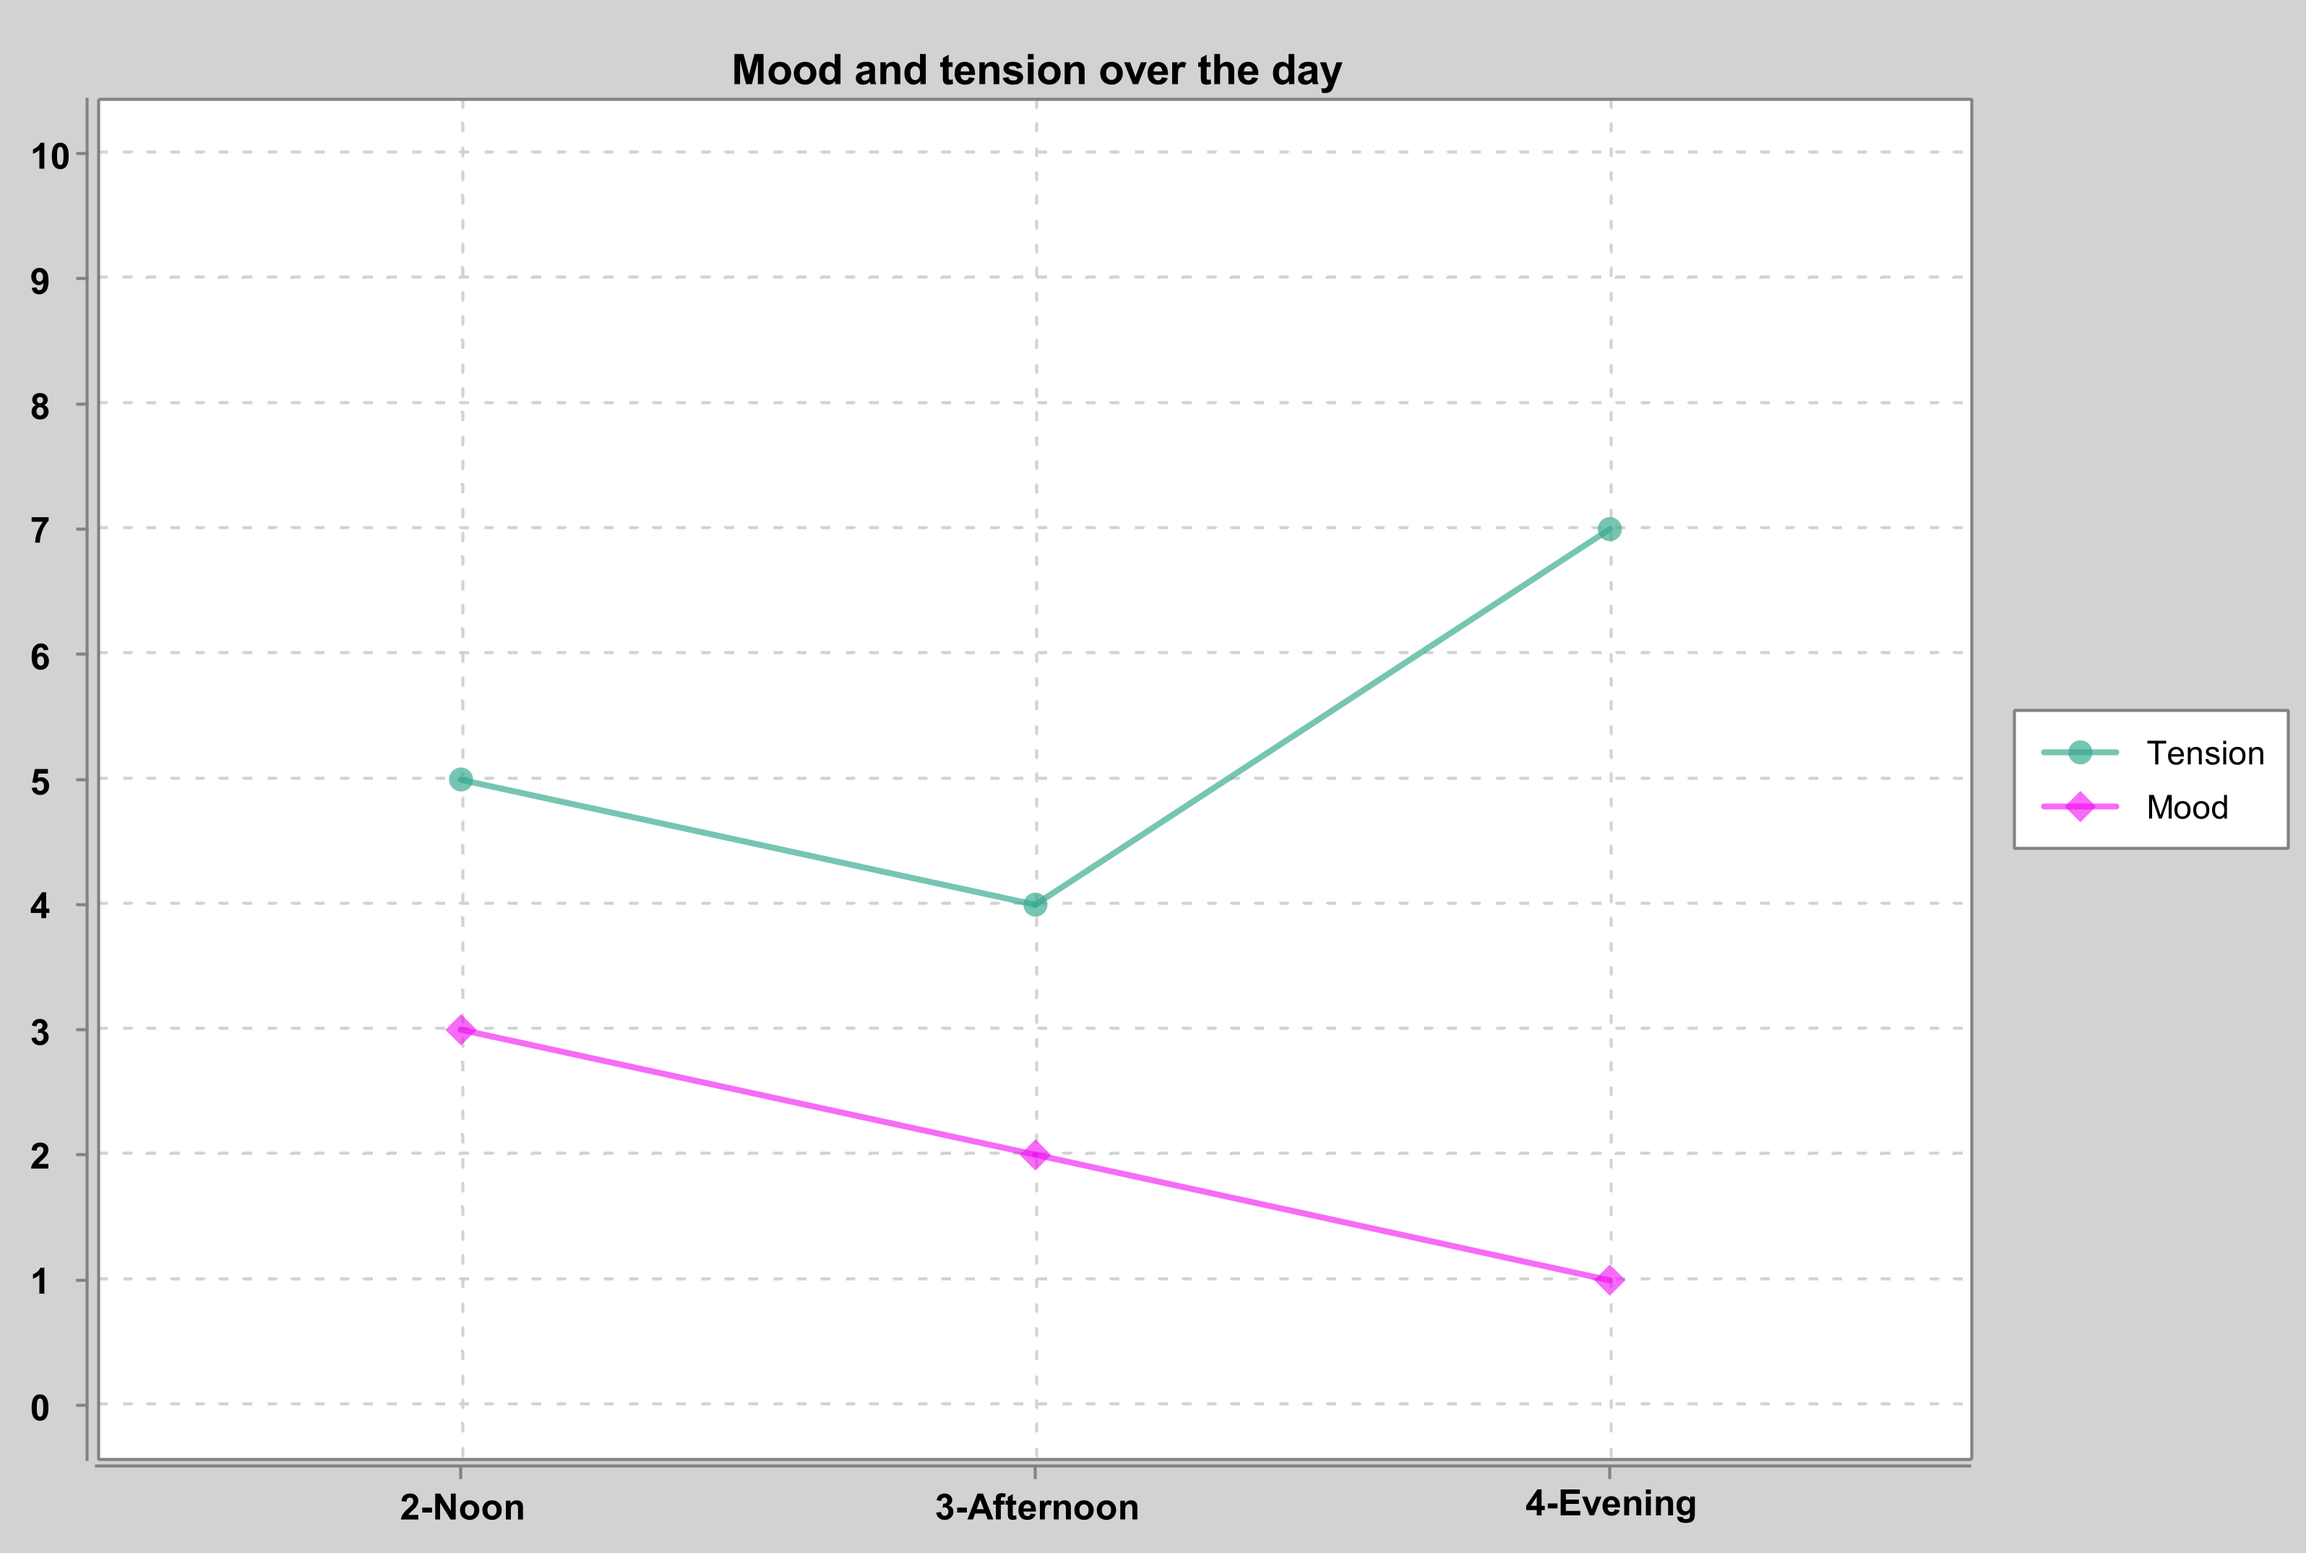
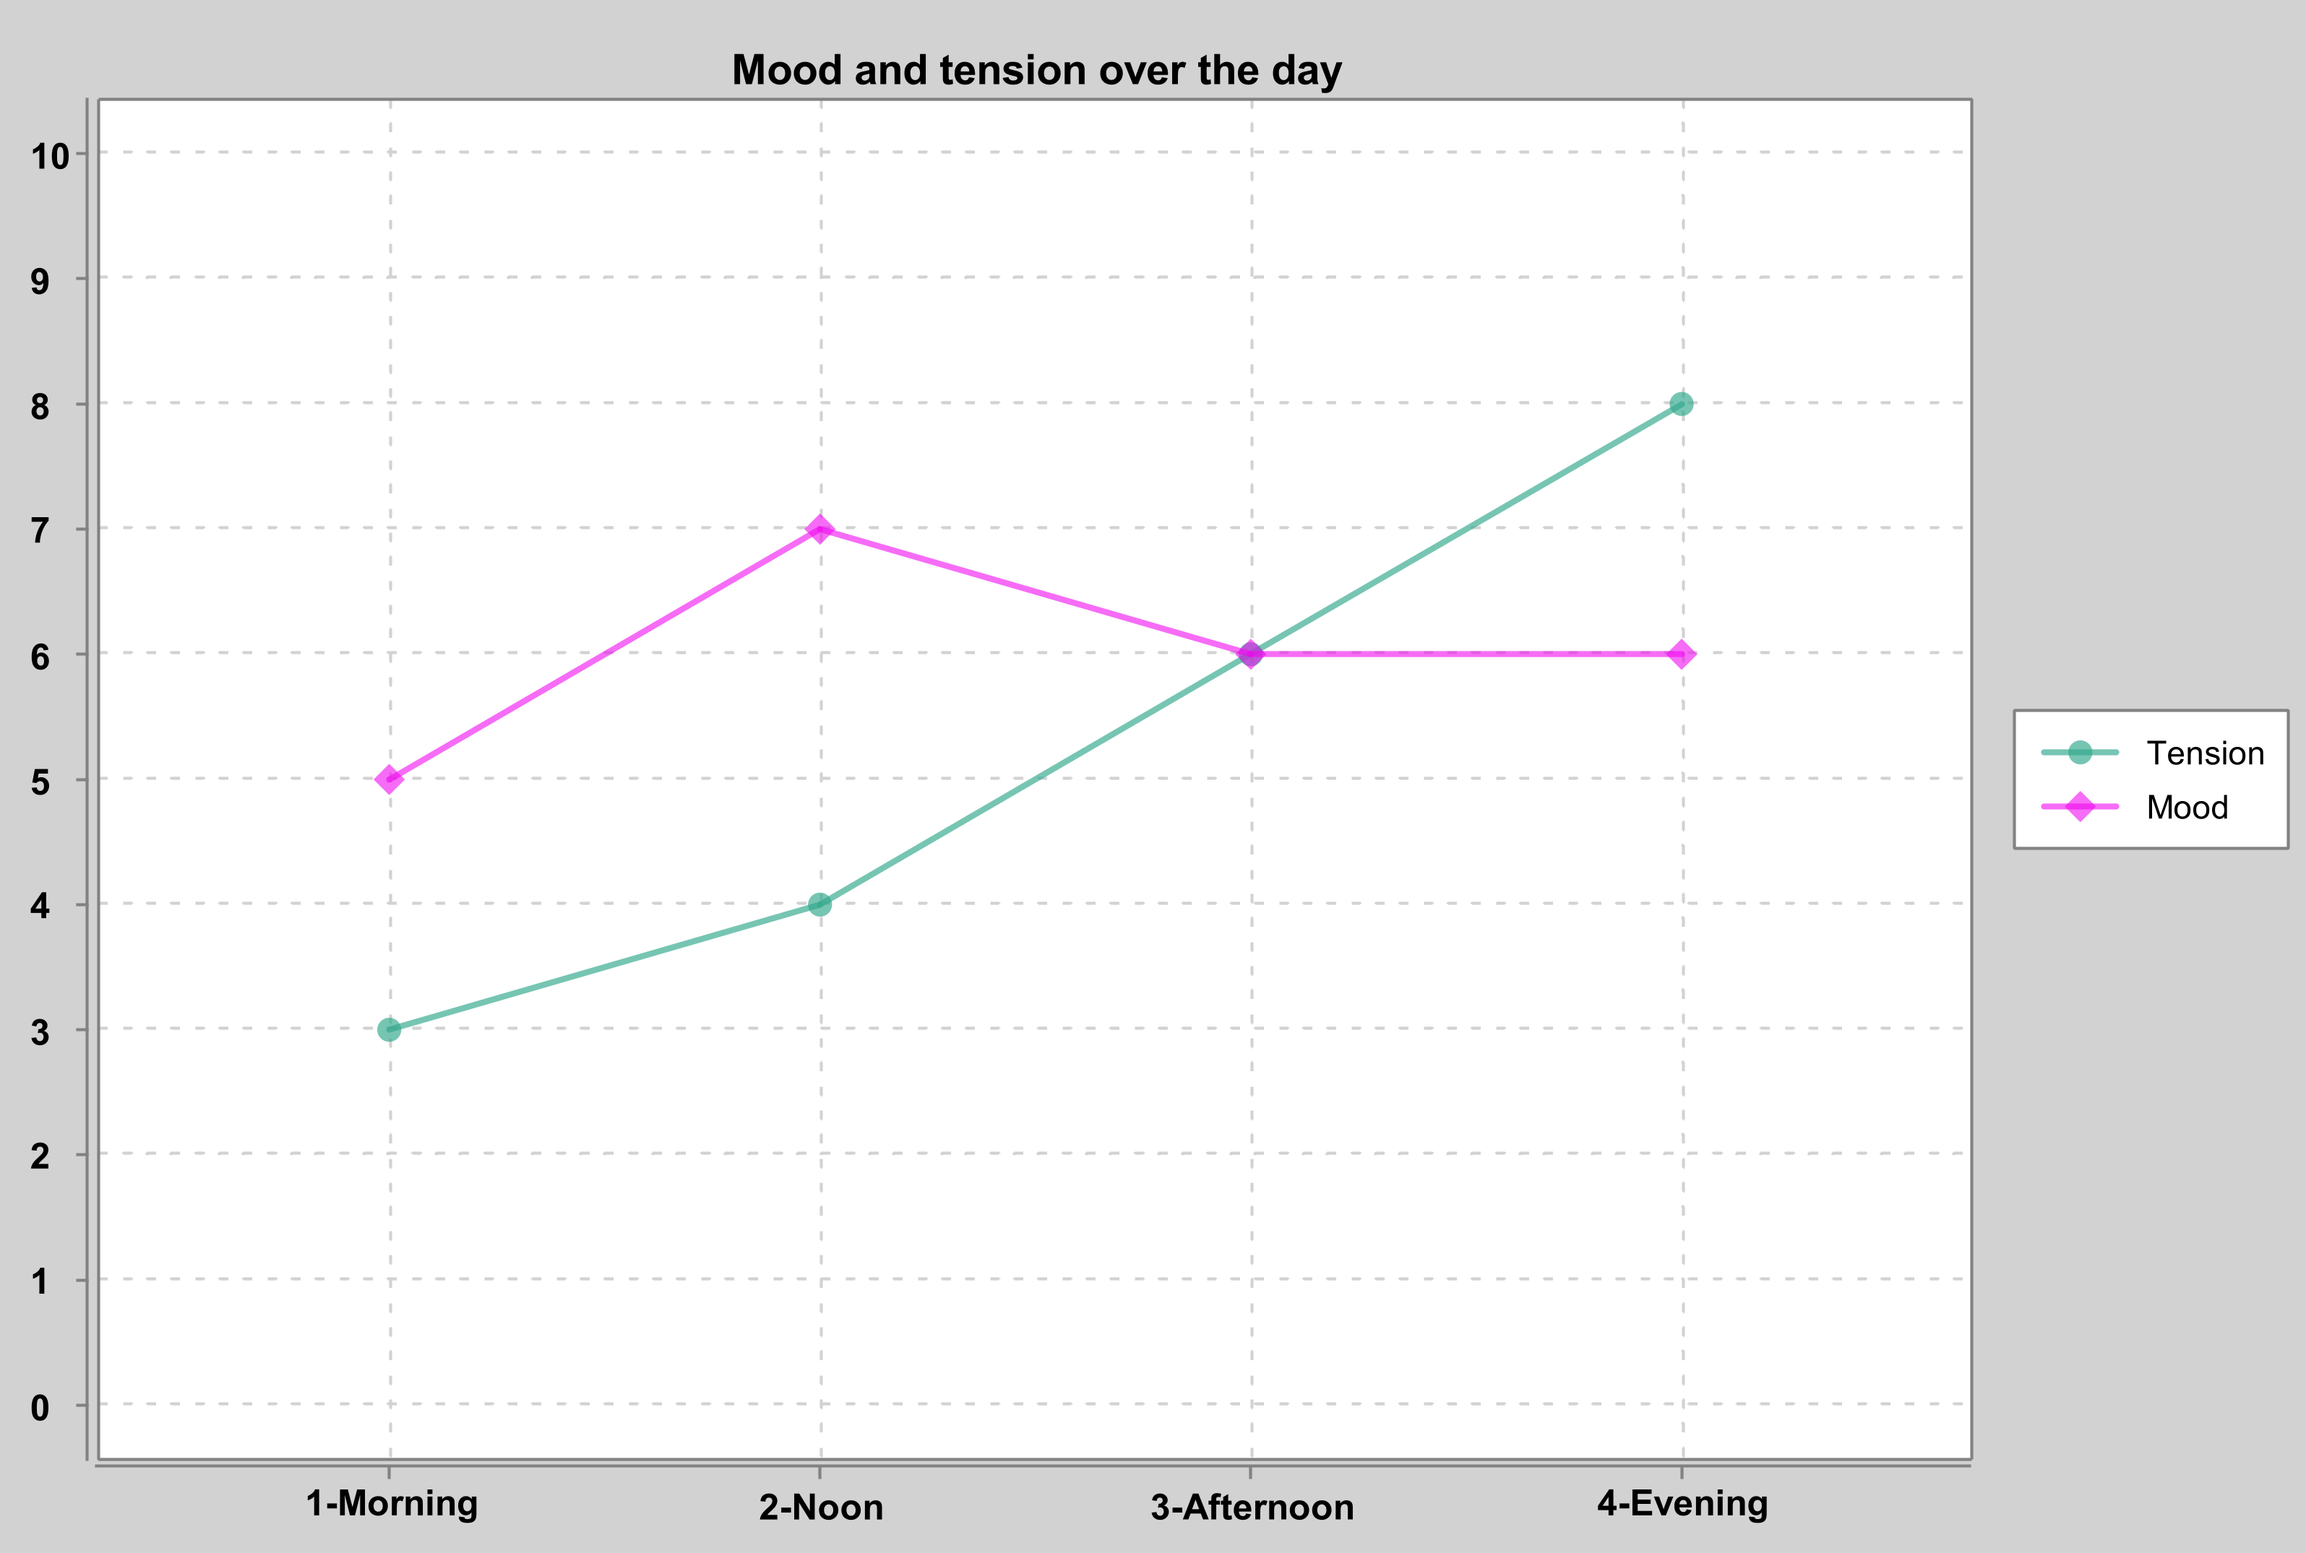
reset db -> All works :) + added max and min to chart

diff --git a/src/main/java/se/hkr/app/MenuController.java b/src/main/java/se/hkr/app/MenuController.java
@@ -189,6 +189,8 @@ public class MenuController {
         chart.getStyler().setToolTipsEnabled(false);
         Color[] colorsSeries = new Color[] { DarkBlue, purple, lightGreen, Color.CYAN };
         chart.getStyler().setSeriesColors(colorsSeries);
+        chart.getStyler().setYAxisMax(10.0);
+        chart.getStyler().setYAxisMin(0.0);
 
         // Series
         Connection con = DatabaseConnection.getInstance().connect();

diff --git a/src/main/java/se/hkr/app/Authentication.java b/src/main/java/se/hkr/app/Authentication.java
@@ -1,13 +1,11 @@
 package se.hkr.app;
 
 import javafx.event.ActionEvent;
-import javafx.fxml.FXML;
 import javafx.fxml.FXMLLoader;
 import javafx.scene.Node;
 import javafx.scene.Parent;
 import javafx.scene.Scene;
 import javafx.scene.control.Alert;
-import javafx.scene.control.Button;
 import javafx.scene.control.PasswordField;
 import javafx.scene.control.TextField;
 import javafx.stage.Stage;
